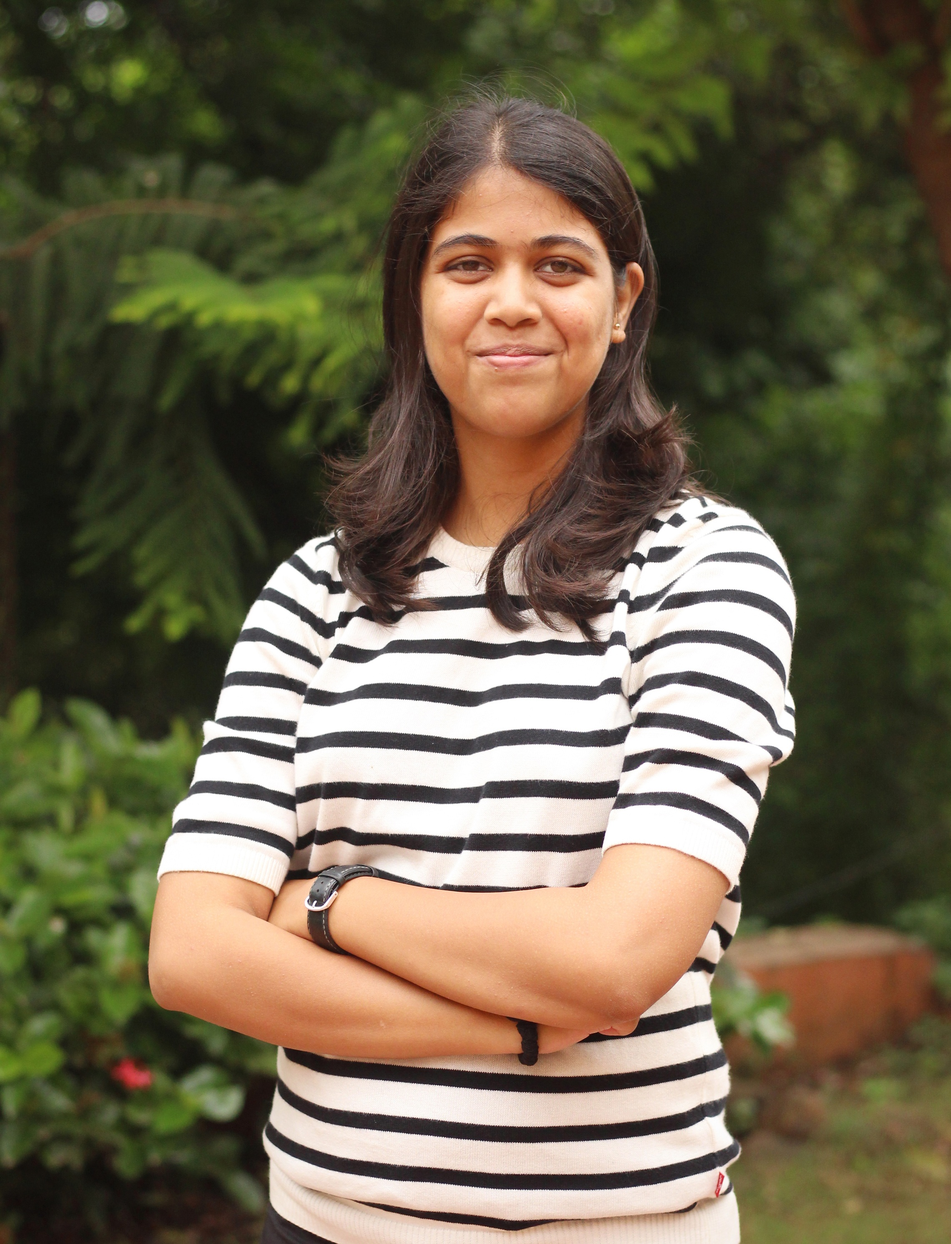
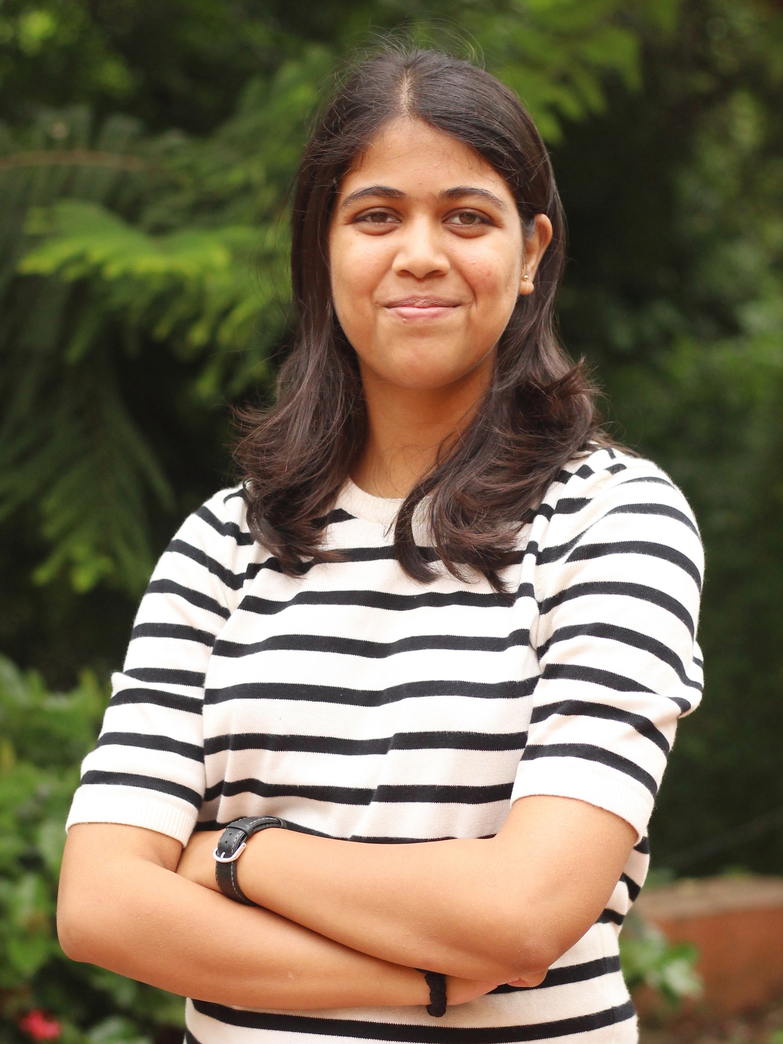
update about me page

diff --git a/about.html b/about.html
@@ -77,7 +77,7 @@
 						<!-- page-title -->
 						<div class="page-title pb-40">
 							<h2 class="page-title__title">About me</h2>
-							<p class="page-title__text">Machine Learning Aficionado. Python coder. Engineer.</p>
+							<p class="page-title__text">Python. Machine Learning. Data.</p>
 							<div class="page-title__divider"></div>
 						</div><!-- End / page-title -->
 						
@@ -90,27 +90,35 @@
 				<section class="section bg-gray">
 					<div class="container">
 						<div class="row">
-							<div class="col-md-6 col-lg-5 "><img src="assets/img/me.jpg" alt="">
+							<div class="col-md-4 col-lg-3"><img src="assets/img/me.jpg" alt="">
 							</div>
 							<div class="col-md-6 col-lg-6 col-xs-offset-0 col-sm-offset-0 col-md-offset-0 col-lg-offset-1 ">
 								
 								<!--  -->
 								<div class="mt-30">
-									<h2 class="about__title">Pratyaksha Jha</h2>
-									<p class="about__subtitle">Pursuing B. E. in Electronics and Communication Engineering</p>
-									<p class="about__text">I am a machine learning aficionado. I help build solutions using ML tools. I am a serial MOOC taker and when I came across a course about machine learning, I absolutely enjoyed it. A few verified courses later, I have not only come to love machine learning but also Python. My skills include machine learning and deep learning. I am well-versed with pandas, numpy, scikit-learn, pytorch and keras packages. 
-											This site helps me to put my various projects and things that I learned available to everyone. Building it was a major task. Not only did I learn HTML and CSS, but I was also able to implement some flask web apps and used Heroku for deployment.
-											Currently, in the Final Year of my B. E. in Electronics and Communications Engineering, my project is on detection of emotion by using DEAP dataset.
-											I also teach Physics and English to High School students and manage some administrative tasks at Ishiine Edretra Venture in Nagpur. 
-											I seek opportunities in data science and allied fields where I can contribute to technological innovation and manage key projects. 
-											In my free time, you can find me watching Netflix or listening to Flume. Want to project together? Want to just talk? I'd love to hear from you.</p>																	
-											
-											<a class="md-btn md-btn--outline-primary" href="Resume - Pratyaksha Jha.pdf" target=_blank>Resume
-											</a>
-
-											<a class="md-btn md-btn--outline-primary" href="contact.html">Contact Me
-											</a>											
-
+									
+									<p class="about__text">
+										<p>
+											My name is Pratyaksha Jha. I'm an analyst at PGS, Pune. I'm also a voracious reader 
+											and an all-round geek.</p>
+										<p>
+											My passion for Python is extended through this blog. 
+											I write about technical themes and my pet projects. 
+											I cover topics related to programming and artificial intelligence. 
+											Sometimes I write on my musings on a book, a TV show or a movie. 
+											This blog is for anyone who is exploring programming or wants to get started.
+										</p>  
+										
+										<p>
+											Feel free to reach out to me.
+										</p>										
+									</p>																																																
+										<a class="md-btn md-btn--outline-primary twitter-dm-button" href="https://twitter.com/messages/compose?recipient_id=1066741132837687297&text=Hi%20there!" data-screen-name="@jha_pratyaksha">Say Hi <i class="social-icon__icon fa fa-twitter"></i>
+										</a>
+										<a class="md-btn md-btn--outline-primary" href="contact.html">Contact Me
+										</a>
+										<a class="md-btn md-btn--outline-primary" href="Resume - Pratyaksha Jha.pdf" target=_blank>Resume
+										</a>											
 								</div><!-- End /  -->
 								
 							</div>
